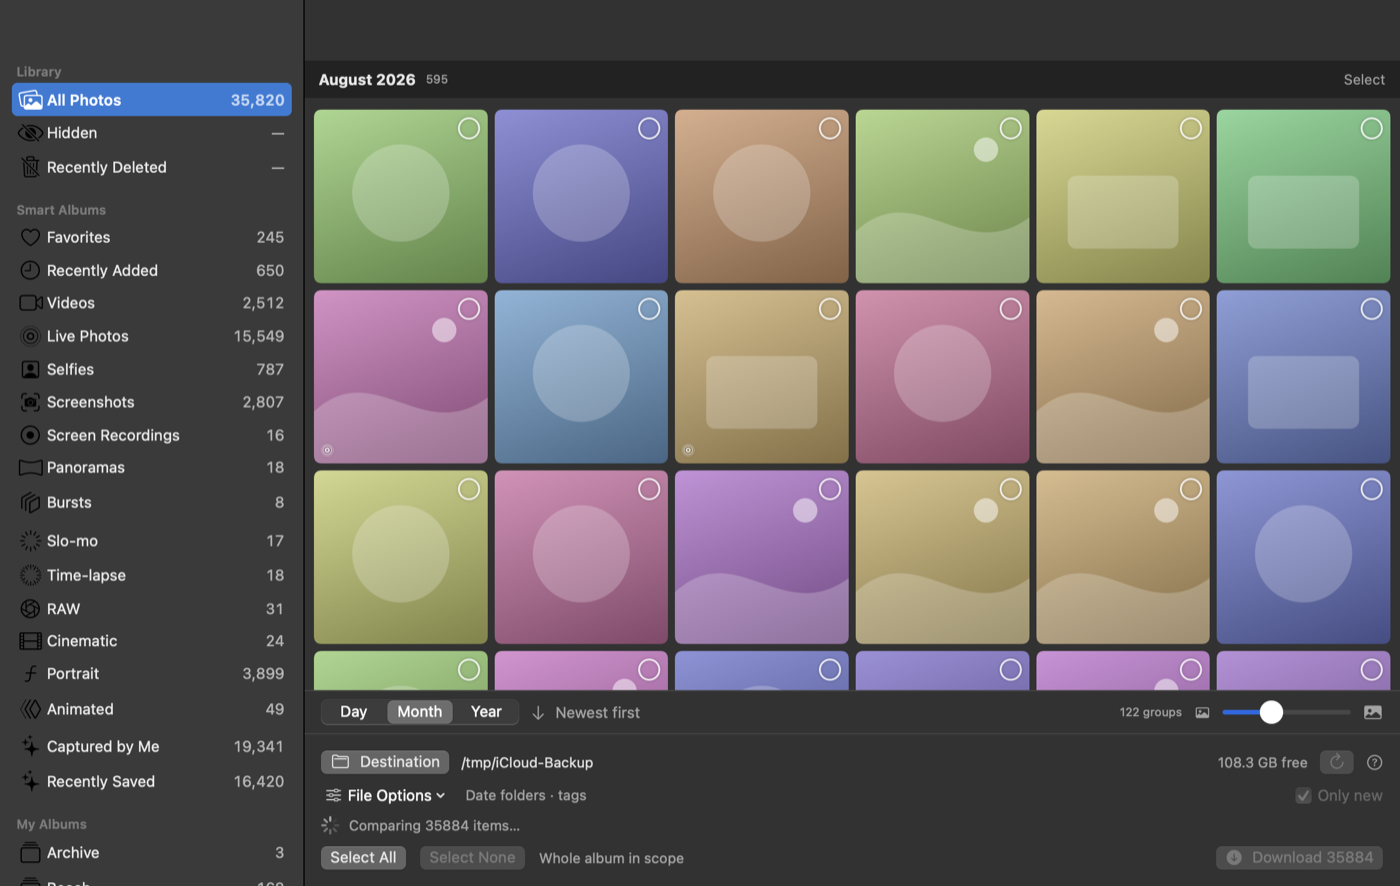
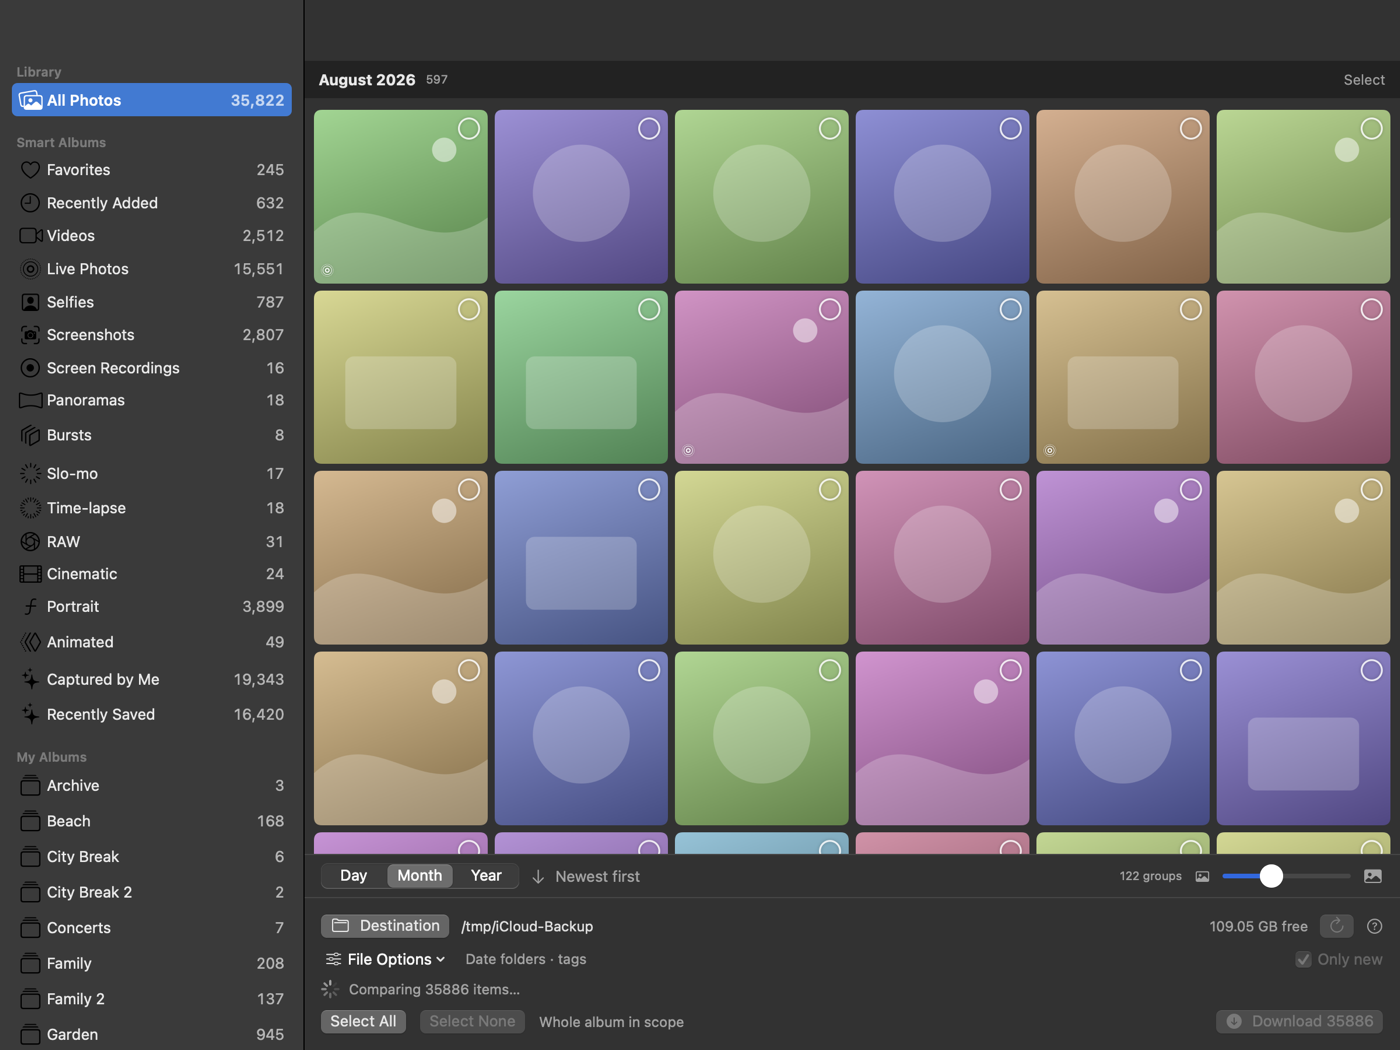
Move Hidden and Recently Deleted to Utilities, cap automatic runs
Both usually read "—" because macOS withholds them, and sitting directly under
All Photos made the first three sidebar rows look broken. Library now holds only
All Photos; the two go to a Utilities section at the bottom.

Auto-download had no size guard: enabled before a first full backup, the first
library change would begin transferring the entire library unattended. Automatic
runs are now capped at 200 items, with anything larger surfaced for a click.

diff --git a/Sources/iCloudGUI/PhotoStore.swift b/Sources/iCloudGUI/PhotoStore.swift
@@ -104,34 +104,11 @@ final class PhotoStore: NSObject, ObservableObject {
         var groups: [AlbumGroup] = []
 
         // --- Library ---
-        var library: [Album] = [
+        groups.append(AlbumGroup(id: "library", title: "Library", albums: [
             Album(id: "__all__", title: "All Photos",
                   count: PHAsset.fetchAssets(with: nil).count,
                   symbol: "photo.on.rectangle.angled", collection: nil)
-        ]
-        let hiddenOptions = PHFetchOptions()
-        hiddenOptions.includeHiddenAssets = true
-        PHAssetCollection.fetchAssetCollections(with: .smartAlbum,
-                                                subtype: .smartAlbumAllHidden,
-                                                options: nil)
-            .enumerateObjects { collection, _, _ in
-                let count = PHAsset.fetchAssets(in: collection, options: hiddenOptions).count
-                library.append(Album(id: collection.localIdentifier,
-                                     title: collection.localizedTitle ?? "Hidden",
-                                     count: count,
-                                     symbol: "eye.slash",
-                                     collection: collection,
-                                     includesHidden: true,
-                                     notice: count == 0 ? .hiddenLocked : nil))
-            }
-
-        // Listed deliberately even though PhotoKit cannot read it. Omitting it silently
-        // makes an Apple restriction look like a missing feature, and this is the first
-        // place someone goes looking.
-        library.append(Album(id: "__recently_deleted__", title: "Recently Deleted",
-                             count: 0, symbol: "trash.slash", collection: nil,
-                             notice: .recentlyDeleted))
-        groups.append(AlbumGroup(id: "library", title: "Library", albums: library))
+        ]))
 
         // --- Smart albums ---
         // Fetched with .any rather than a fixed list, so undocumented-but-real
@@ -224,6 +201,32 @@ final class PhotoStore: NSObject, ObservableObject {
             groups.append(AlbumGroup(id: "shared", title: "Shared Albums",
                                      albums: shared.sorted(by: byName)))
         }
+
+        // --- Utilities, last ---
+        // Hidden is a real smart album (subtype 205); Recently Deleted is not a
+        // collection at all and is synthesised here. Both usually read "—" because
+        // macOS withholds them, so they sit at the bottom rather than directly under
+        // All Photos, where two dashes read as something being broken.
+        var utilities: [Album] = []
+        let hiddenOptions = PHFetchOptions()
+        hiddenOptions.includeHiddenAssets = true
+        PHAssetCollection.fetchAssetCollections(with: .smartAlbum,
+                                                subtype: .smartAlbumAllHidden,
+                                                options: nil)
+            .enumerateObjects { collection, _, _ in
+                let count = PHAsset.fetchAssets(in: collection, options: hiddenOptions).count
+                utilities.append(Album(id: collection.localIdentifier,
+                                       title: collection.localizedTitle ?? "Hidden",
+                                       count: count,
+                                       symbol: "eye.slash",
+                                       collection: collection,
+                                       includesHidden: true,
+                                       notice: count == 0 ? .hiddenLocked : nil))
+            }
+        utilities.append(Album(id: "__recently_deleted__", title: "Recently Deleted",
+                               count: 0, symbol: "trash.slash", collection: nil,
+                               notice: .recentlyDeleted))
+        groups.append(AlbumGroup(id: "utilities", title: "Utilities", albums: utilities))
 
         albumGroups = groups
         albums = groups.flatMap(\.albums)

diff --git a/Sources/iCloudGUI/ContentView.swift b/Sources/iCloudGUI/ContentView.swift
@@ -83,13 +83,27 @@ struct ContentView: View {
                          writeFinderTags: writeFinderTags)
     }
 
+    /// Above this, an automatic run is a backup rather than a top-up, and wants a
+    /// deliberate click. Without the cap, enabling auto-download before a first full
+    /// backup would silently begin transferring an entire library — hundreds of
+    /// gigabytes, unattended, with no one watching the free space.
+    private static let autoDownloadLimit = 200
+
     /// Starts a download when new photos land, if the user asked for that.
     private func maybeAutoDownload(_ ids: Set<String>) {
         guard autoDownload, !ids.isEmpty, dest.url != nil,
               !downloader.progress.isRunning, !dest.isWorking,
               ids != lastAutoAttempt else { return }
         lastAutoAttempt = ids
+        guard downloadTargets.count <= Self.autoDownloadLimit else { return }
         startDownload()
+    }
+
+    /// Shown when auto-download declined to start because the batch was too large.
+    private var autoDownloadHeldBack: Bool {
+        autoDownload && dest.plan != nil && !downloadTargets.isEmpty
+            && downloadTargets.count > Self.autoDownloadLimit
+            && !downloader.progress.isRunning
     }
 
     private func refresh() {
@@ -258,6 +272,10 @@ struct ContentView: View {
                     Text(dest.statusText).font(.callout)
                         .foregroundStyle(dest.isWorking ? .secondary : .primary)
                         .lineLimit(1).truncationMode(.tail)
+                    if autoDownloadHeldBack {
+                        Text("· too many for an automatic run, click Download")
+                            .font(.callout).foregroundStyle(.orange).lineLimit(1)
+                    }
                     if store.arrivedSinceOpen > 0 {
                         Text("· \(store.arrivedSinceOpen) arrived since opening")
                             .font(.callout).foregroundStyle(.secondary)

diff --git a/README.md b/README.md
@@ -194,12 +194,17 @@ existing 200 GB backup is a job for `mv`, not a re-download.
 
 The sidebar is grouped and sorted:
 
-- **Library** — All Photos, Hidden, Recently Deleted
+- **Library** — All Photos
 - **Smart Albums** — Favorites, Recently Added, Videos, Live Photos, Selfies,
   Screenshots, Screen Recordings, Panoramas, Bursts, Slo-mo, Time-lapse, RAW,
   Cinematic, Portrait, Long Exposure, Animated (empty ones are omitted)
 - **My Albums** — your own albums, alphabetical
 - **Shared Albums** — iCloud Shared Albums, alphabetical
+- **Utilities** — Hidden and Recently Deleted
+
+Hidden is a real smart album; Recently Deleted is not a collection PhotoKit exposes at
+all, and is listed anyway so an Apple restriction does not look like a missing feature.
+Both usually read **—**, so they sit at the bottom rather than directly under All Photos.
 
 ### Hidden — supported, but macOS may be withholding them
 
@@ -391,6 +396,10 @@ triggers a download of everything still missing — which can be hundreds of gig
 
 If an item fails repeatedly it is not retried in a loop: the app remembers the set it
 last auto-started on and will not restart on the same one.
+
+**Automatic runs are capped at 200 items.** Above that the app says so and waits for a
+click, rather than beginning a several-hundred-gigabyte transfer unattended — which is
+what enabling this before a first full backup would otherwise do.
 
 ## Browsing by date
 
